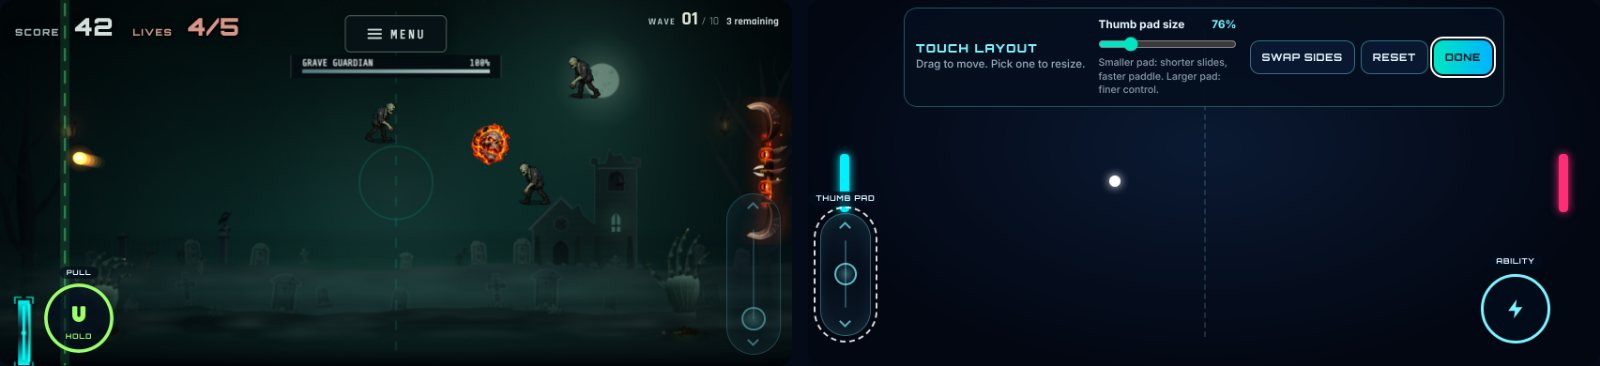
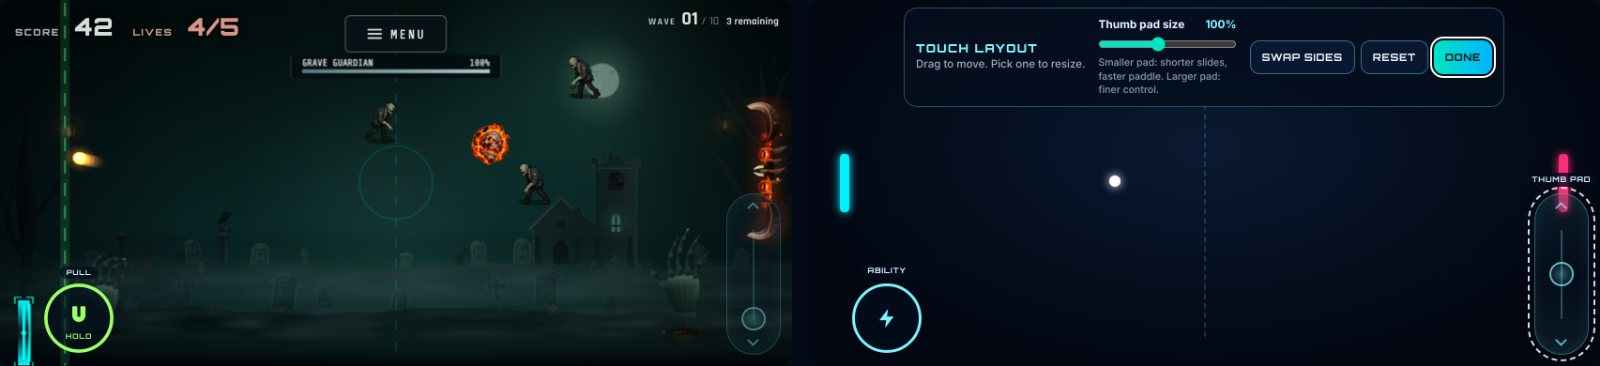
README: show the default touch layout (ability left, thumb pad right)
Claude-Session: https://claude.ai/code/session_011UNH1gFGwLKYyTJXFRJxax

diff --git a/README.md b/README.md
@@ -325,7 +325,7 @@ point a **▶ REPLAY** chip shows for a few seconds.
 
 <p align="center"><img src="docs/images/mobile.jpg" alt="Local 1v1 on a phone with two ability buttons" width="80%" /></p>
 
-<p align="center"><img src="docs/images/touch-pad.jpg" alt="Zombie mode on a phone with the thumb pad in the bottom-right corner, and the Touch layout editor with the pad moved to the left and the ability button to the right" width="100%" /></p>
+<p align="center"><img src="docs/images/touch-pad.jpg" alt="Zombie mode on a phone with the ability button bottom left and the thumb pad bottom right, and the Touch layout editor showing the default layout" width="100%" /></p>
 <p align="center"><sub>Left: the thumb pad in a match (its knob shows where your paddle is). Right: Settings &gt; Controls &gt; Touch layout.</sub></p>
 
 ## Settings
